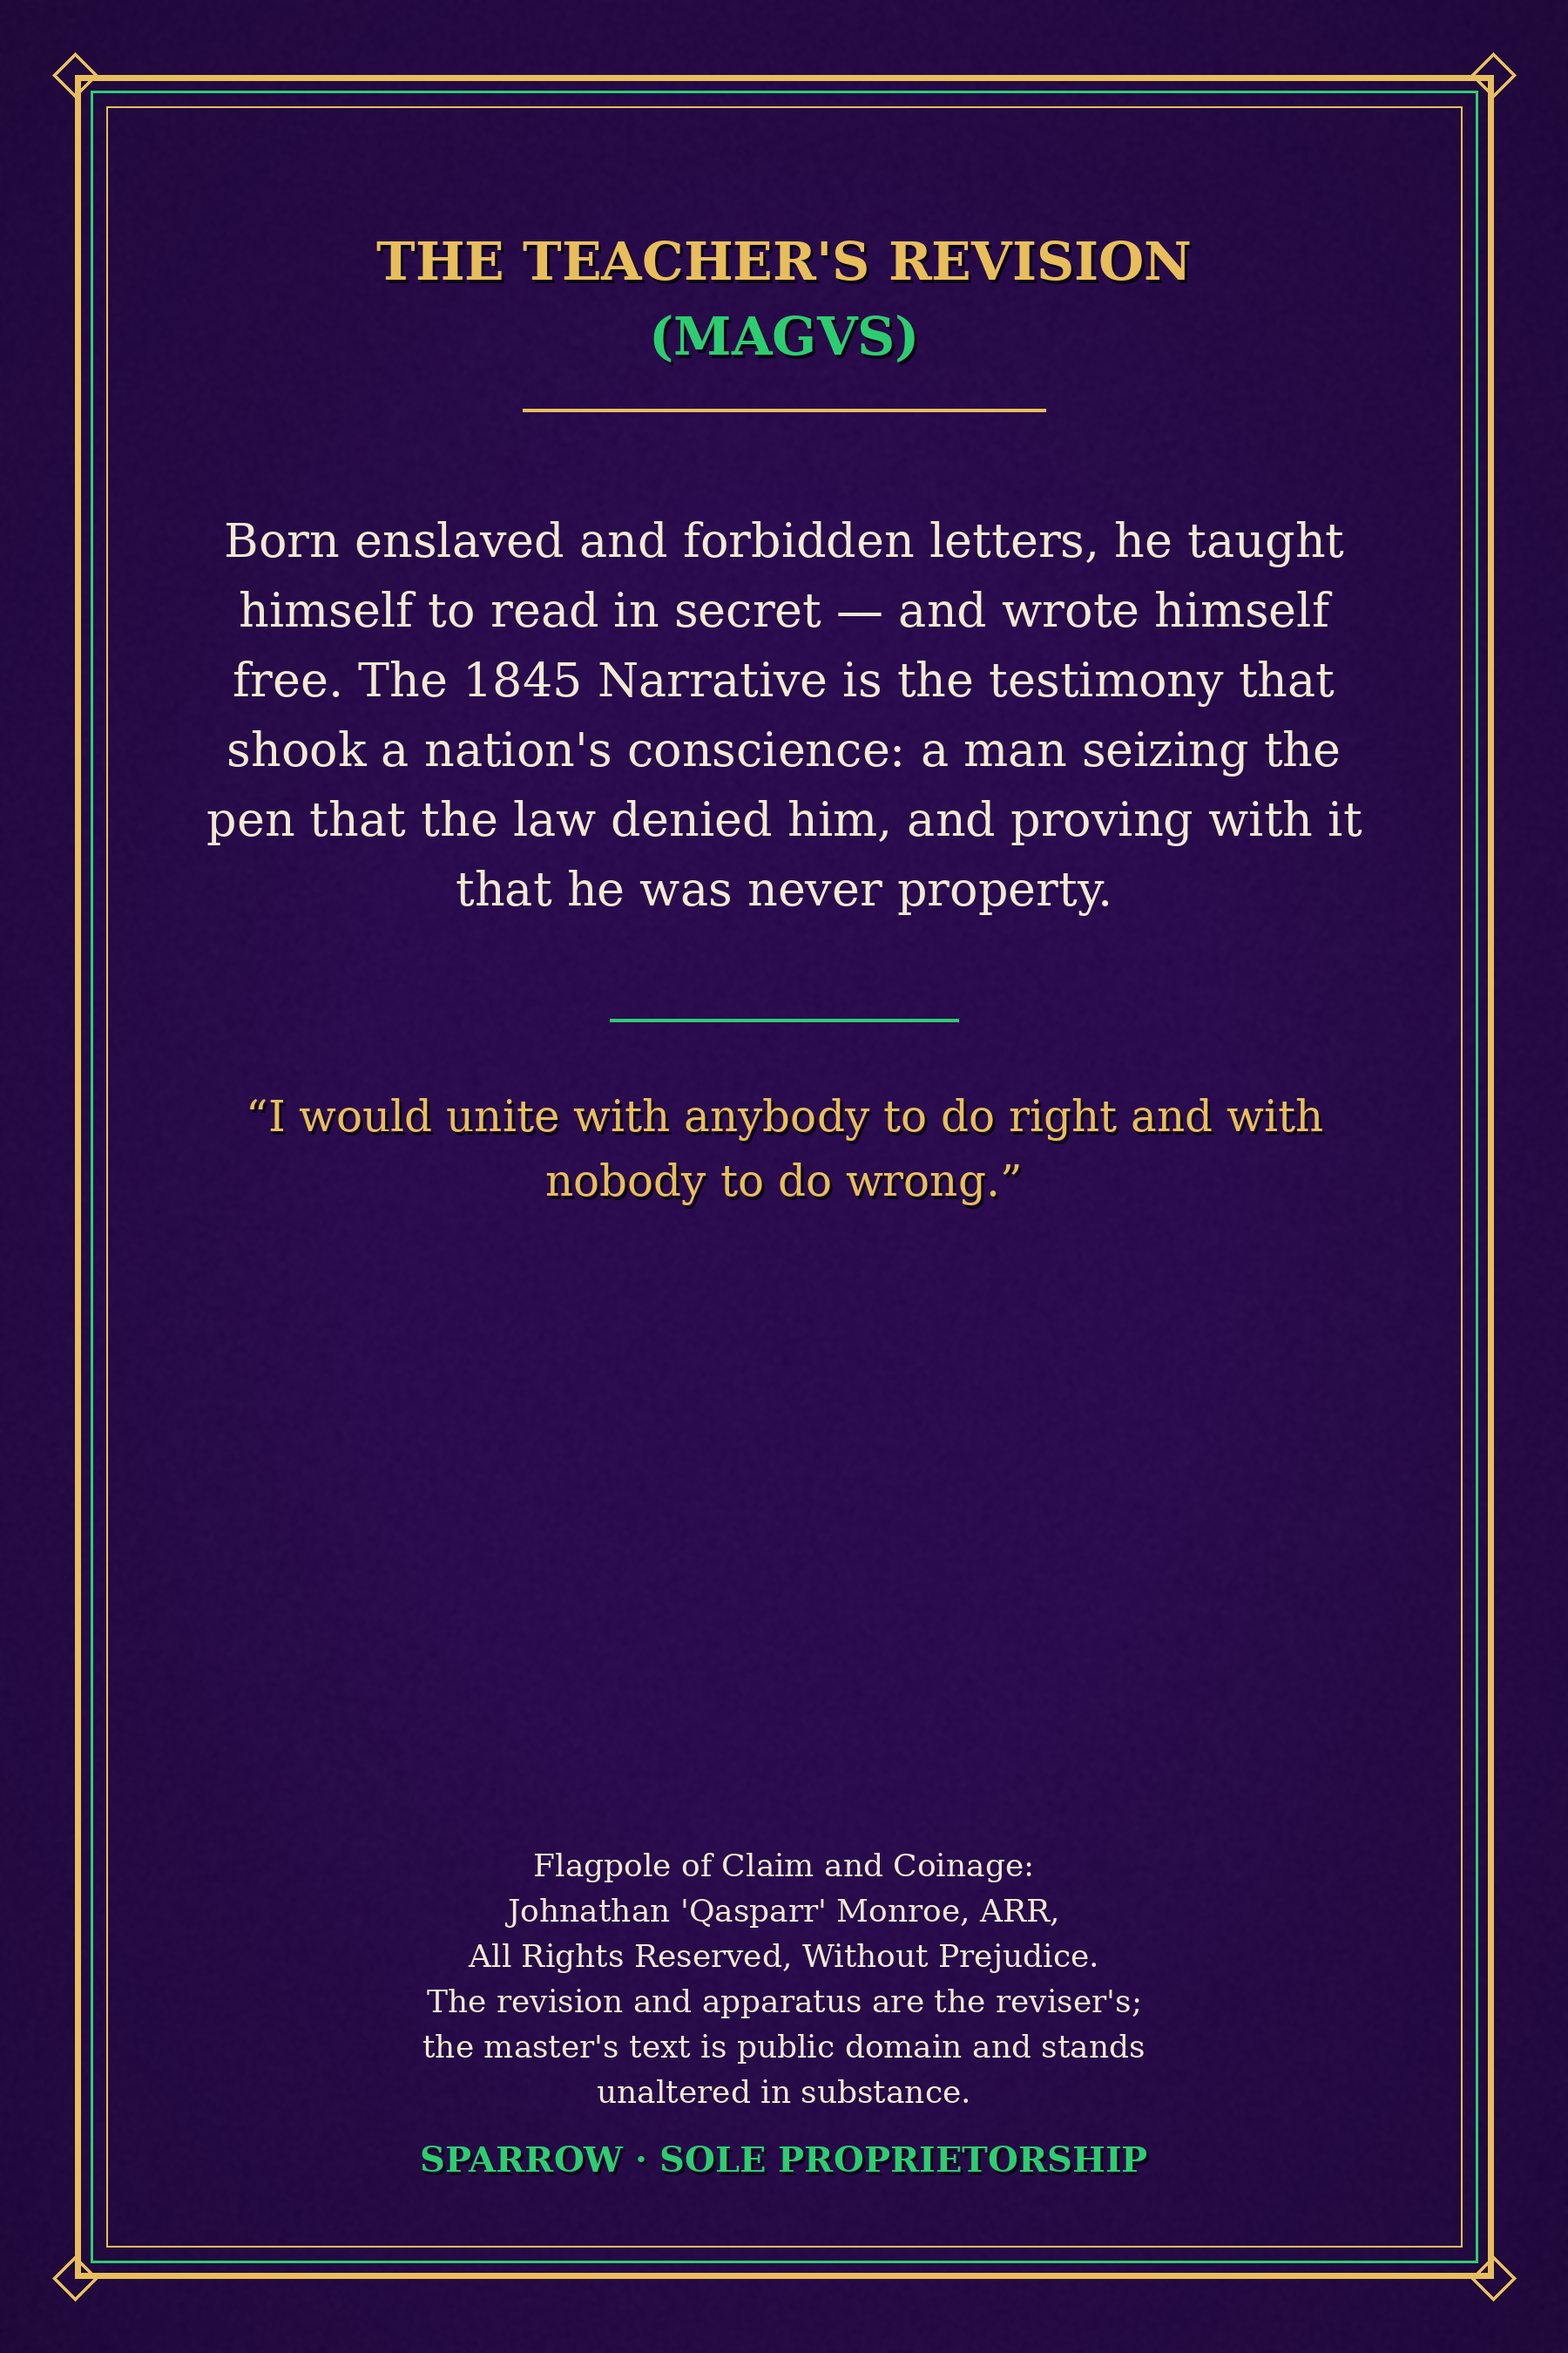
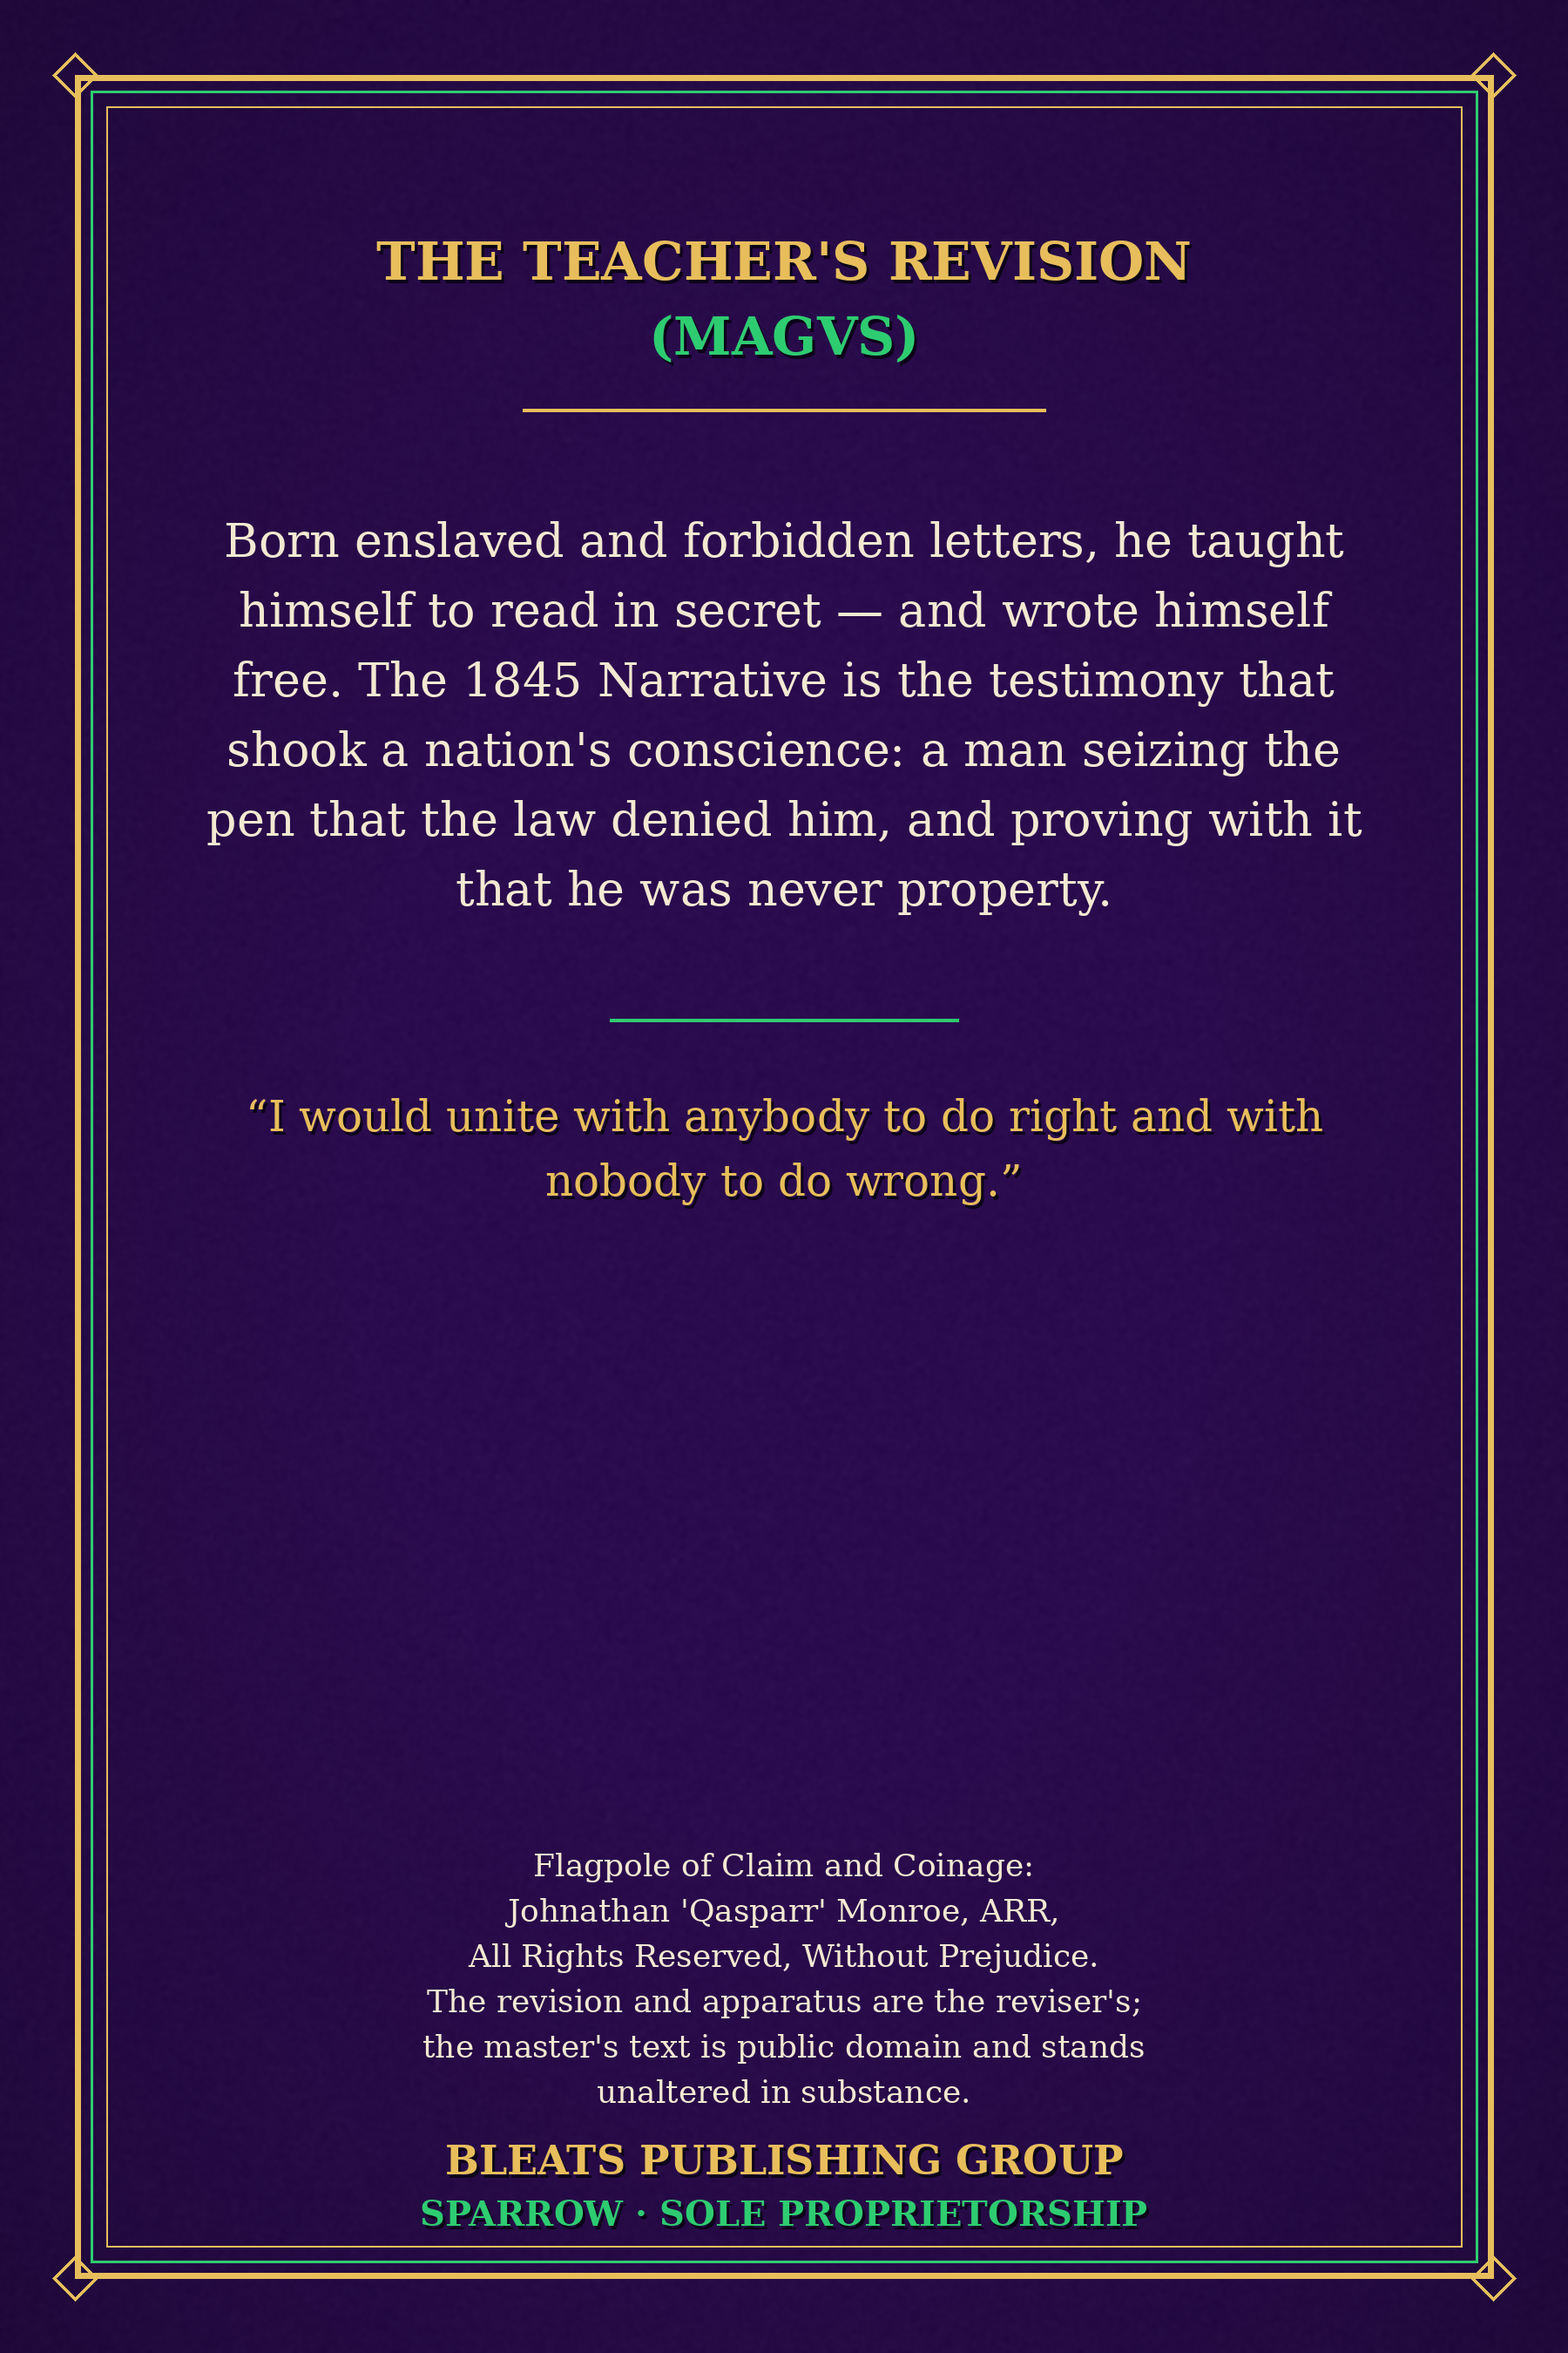
THE IMPRINT SEALED: Bleats Publishing Group seal struck — the founder's gold goat in a purple field, rim legend BLEATS PUBLISHING GROUP / SAY IT · SPRAY IT · OWN IT, VOX CAPRI · VOX POPVLI · NVLLA VOX TACEBITVR, policy line: THE TST CONSTITUTION IS POLICY — THE USER ABOVE ALL. Back covers re-struck 

Changed region(s): [[0.28, 0.9022, 0.7467, 0.9644]]

diff --git a/build_bpg_seal.py b/build_bpg_seal.py
@@ -1,0 +1,112 @@
+#!/usr/bin/env python3
+# 93 — THE BLEATS PUBLISHING GROUP SEAL (founder's commission 2026-11-09).
+# Authorship attributed exclusively to Johnathan 'Qasparr' Monroe
+# (Greek, -ARR, All Rights Reserved, Without Prejudice).
+# MECHANISM: PIL seal press — circular rim legend set letter by letter
+# on the arc, the founder's gold goat silhouette (his master mark,
+# tint preserved) seated in a purple field, green pinstripes per the
+# colour canon (purple · gold · green, ruled 2026-11-06).
+# DOCTRINE carried on the seal itself: the Bleats motto in the rim
+# (SAY IT · SPRAY IT · OWN IT), the Latin motto in the field
+# (VOX CAPRI · VOX POPVLI / NVLLA VOX TACEBITVR), and the policy line
+# — the TST Constitution is the house policy; the user above all.
+import math, os
+import numpy as np
+from PIL import Image, ImageDraw, ImageFont
+
+S = 2400
+C = S // 2
+SERIFB = "/usr/share/fonts/truetype/dejavu/DejaVuSerif-Bold.ttf"
+SERIF = "/usr/share/fonts/truetype/dejavu/DejaVuSerif.ttf"
+GOAT = os.path.expanduser("~/workspace/goals/bleat-social-platform/files/logo/bleat-gold-silhouette.png")
+OUT = os.path.expanduser("~/workspace/bookshop/BLEATS-PUBLISHING-GROUP-SEAL.png")
+
+GOLD = (232, 190, 92)
+GOLD_D = (150, 112, 40)
+GREEN = (46, 204, 113)
+CREAM = (243, 233, 210)
+FIELD = (46, 13, 84)
+BAND = (30, 7, 56)
+
+img = Image.new("RGBA", (S, S), (0, 0, 0, 0))
+drw = ImageDraw.Draw(img)
+
+# Field disc with a soft radial lightening toward the center.
+yy, xx = np.mgrid[0:S, 0:S]
+r = np.sqrt((xx - C) ** 2 + (yy - C) ** 2)
+disc = np.zeros((S, S, 4), np.uint8)
+shade = np.clip(1 - r / 1250, 0, 1) * 26
+disc[..., 0] = FIELD[0] + shade
+disc[..., 1] = FIELD[1] + shade * 0.4
+disc[..., 2] = FIELD[2] + shade * 1.4
+disc[..., 3] = np.where(r <= 1170, 255, 0)
+img = Image.fromarray(disc, "RGBA")
+drw = ImageDraw.Draw(img)
+
+def ring(radius, col, w):
+    drw.ellipse([C - radius, C - radius, C + radius, C + radius], outline=col, width=w)
+
+ring(1170, GOLD, 10)
+ring(1148, GOLD_D, 3)
+ring(952, GREEN, 8)
+ring(930, GOLD, 4)
+
+# Rim band fill between the rings.
+band = Image.new("RGBA", (S, S), (0, 0, 0, 0))
+bd = ImageDraw.Draw(band)
+bd.ellipse([C - 1145, C - 1145, C + 1145, C + 1145], fill=BAND + (255,))
+bd.ellipse([C - 955, C - 955, C + 955, C + 955], fill=(0, 0, 0, 0))
+img.paste(Image.alpha_composite(img, band), (0, 0))
+drw = ImageDraw.Draw(img)
+ring(1170, GOLD, 10); ring(1148, GOLD_D, 3); ring(952, GREEN, 8); ring(930, GOLD, 4)
+
+def arc_text(text, radius, mid_deg, font, fill, flip=False):
+    widths = [drw.textlength(ch, font=font) for ch in text]
+    total = sum(widths) + (len(text) - 1) * 6
+    span = total / radius
+    a = math.radians(mid_deg) - span / 2 * (-1 if flip else 1)
+    step_sign = -1 if flip else 1
+    for ch, wch in zip(text, widths):
+        da = (wch / 2) / radius * step_sign
+        a += da
+        x = C + radius * math.cos(a)
+        y = C + radius * math.sin(a)
+        rot = -(math.degrees(a) + 90) if not flip else -(math.degrees(a) - 90)
+        tile = Image.new("RGBA", (140, 140), (0, 0, 0, 0))
+        td = ImageDraw.Draw(tile)
+        td.text((70, 70), ch, font=font, fill=fill, anchor="mm")
+        tile = tile.rotate(rot, resample=Image.BICUBIC, center=(70, 70))
+        img.paste(tile, (int(x - 70), int(y - 70)), tile)
+        a += ((wch / 2) + 6) / radius * step_sign
+
+frim = ImageFont.truetype(SERIFB, 104)
+arc_text("BLEATS PUBLISHING GROUP", 1050, -90, frim, GOLD)
+arc_text("SAY IT · SPRAY IT · OWN IT", 1050, 90, frim, GOLD, flip=True)
+for ang in (0, 180):
+    x = C + 1050 * math.cos(math.radians(ang)); y = C + 1050 * math.sin(math.radians(ang))
+    drw.polygon([(x, y - 18), (x + 18, y), (x, y + 18), (x - 18, y)], fill=GREEN)
+
+# The founder's gold goat, seated in the field.
+goat = Image.open(GOAT).convert("RGBA")
+goat.thumbnail((880, 880))
+img.paste(goat, (C - goat.width // 2, 560), goat)
+drw = ImageDraw.Draw(img)
+
+def ctext(y, text, font, fill, spacing=0):
+    if spacing:
+        w = sum(drw.textlength(ch, font=font) + spacing for ch in text)
+        x = C - w / 2
+        for ch in text:
+            drw.text((x, y), ch, font=font, fill=fill)
+            x += drw.textlength(ch, font=font) + spacing
+    else:
+        drw.text((C, y), text, font=font, fill=fill, anchor="ma")
+
+ctext(1470, "VOX CAPRI · VOX POPVLI", ImageFont.truetype(SERIFB, 66), GOLD, spacing=4)
+drw.line([C - 330, 1590, C + 330, 1590], fill=GREEN, width=6)
+ctext(1630, "NVLLA VOX TACEBITVR", ImageFont.truetype(SERIF, 58), CREAM, spacing=4)
+ctext(1780, "THE TST CONSTITUTION IS POLICY", ImageFont.truetype(SERIFB, 54), GOLD, spacing=2)
+ctext(1870, "THE USER ABOVE ALL", ImageFont.truetype(SERIFB, 62), GREEN, spacing=4)
+
+img.save(OUT)
+print("SEAL STRUCK:", OUT, img.size)

diff --git a/covers/build_covers.py b/covers/build_covers.py
@@ -121,6 +121,8 @@ def back(slug, title_short, synopsis, pull):
                  "unaltered in substance."]:
         foil_text(img, (W // 2, y), line, ff, fill=CREAM, shadow=False); y += 52
     y += 26
+    foil_text(img, (W // 2, y), "BLEATS PUBLISHING GROUP", ImageFont.truetype(SERIFB, 46), fill=GOLD)
+    y += 62
     foil_text(img, (W // 2, y), "SPARROW · SOLE PROPRIETORSHIP", ImageFont.truetype(SERIFB, 40), fill=GREEN)
     img.save(os.path.join(OUT, f"BACK-{slug}.png"))
 
